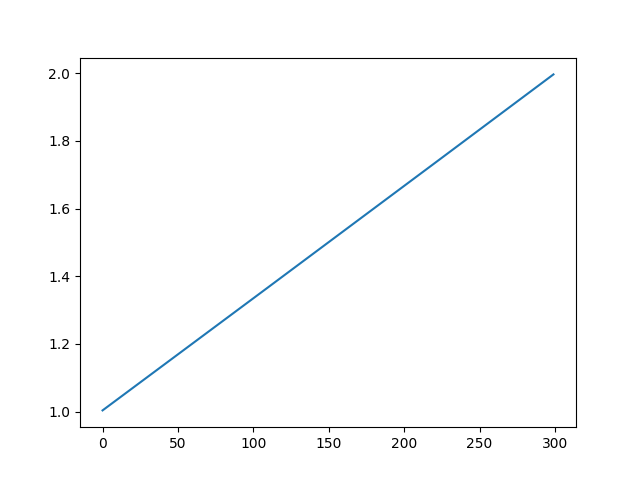
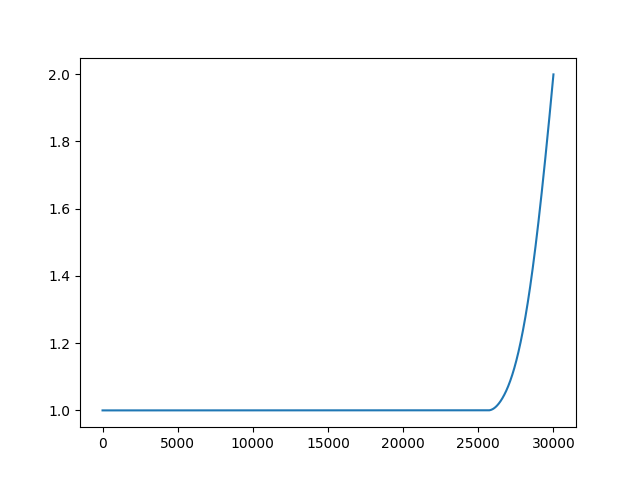
tmp / collect some data

diff --git a/hw2/laplace.c b/hw2/laplace.c
@@ -15,7 +15,7 @@ void laplace_iterate(float* buf, int n, float left, float right) {
 }
 
 int main ( int argc , char ** argv ) {
-    int k , p , me , left , right , count = 1, tag = 1, nit = 3000000, n_local, n_total=300;
+    int k , p , me , left , right , count = 1, tag = 1, nit = 3000000, n_local, n_total=30000;
     float ul, ur, u, u0 = 1.0 , alpha = 1.0 , beta = 2.0;
     MPI_Status status;
 

diff --git a/hw2/timing.py b/hw2/timing.py
@@ -14,7 +14,7 @@ if __name__ == "__main__":
             log = read_log(i)
             log_data.append(log)
         except Exception as e:
-            print(e)
+            #print(e)
             break
         i = i + 1
 
